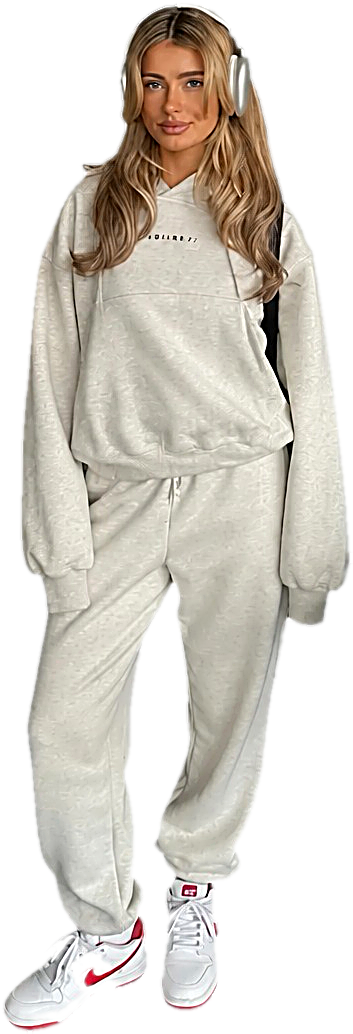
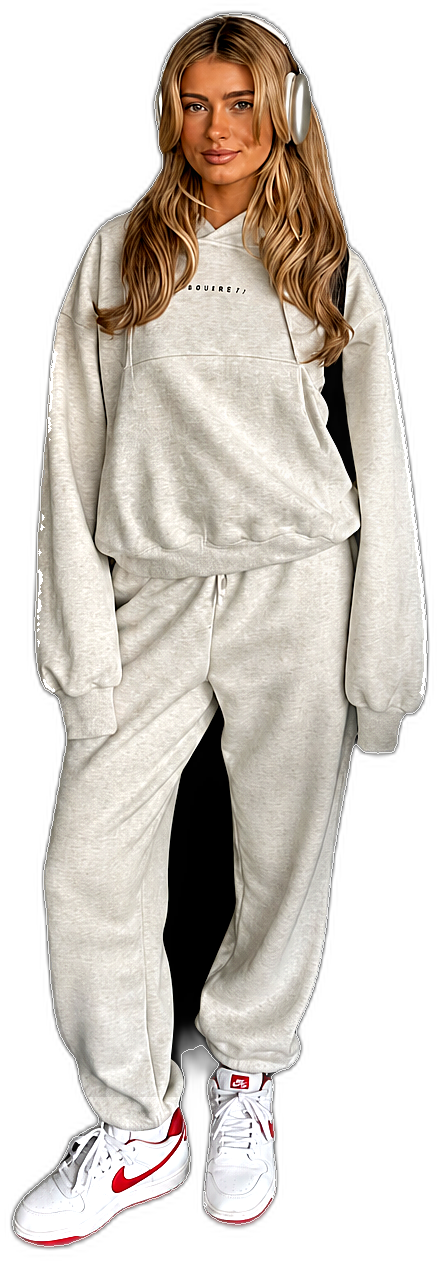
Improve style carousel cutouts: clean fringe, restore sneakers, deepen stage
Refresh streetwear and comfort model assets with cleaner edges and fuller white sneakers, and slightly darken the comfort slide so shoes stay distinct.

diff --git a/components/StyleCarousel.css b/components/StyleCarousel.css
@@ -35,10 +35,10 @@
      backdrop (the 3D), and a tight halo-shadow traces the silhouette so
      light shoes / cream fabric never dissolve into a light slide. */
   filter:
-    drop-shadow(0 16px 22px rgba(0,0,0,.45))
-    drop-shadow(0 4px 7px rgba(0,0,0,.34))
-    drop-shadow(0 0 2.5px rgba(0,0,0,.72))
-    drop-shadow(0 0 1.3px rgba(0,0,0,.72));
+    drop-shadow(0 22px 28px rgba(0,0,0,.5))
+    drop-shadow(0 8px 12px rgba(0,0,0,.36))
+    drop-shadow(0 2px 4px rgba(0,0,0,.28))
+    drop-shadow(0 0 1.5px rgba(0,0,0,.55));
 }
 
 /* Mini pedestal — a soft round disc the figure appears to stand on. Two

diff --git a/components/StyleCarousel.js b/components/StyleCarousel.js
@@ -34,7 +34,8 @@ const SLIDES = [
     name: "Comfort Clothes",
     src: "/assets/img/style-comfort.png",
     alt: "Woman in an oatmeal hoodie and matching joggers — comfort wear at Sage Thread Boutique Bangalore",
-    bg: "#A49A87",
+    /* Slightly deeper taupe so white sneakers stay distinct against the stage */
+    bg: "#8E8574",
     ink: "#ffffff",
     type: {
       fontFamily: '"Quicksand", "Montserrat", sans-serif',
